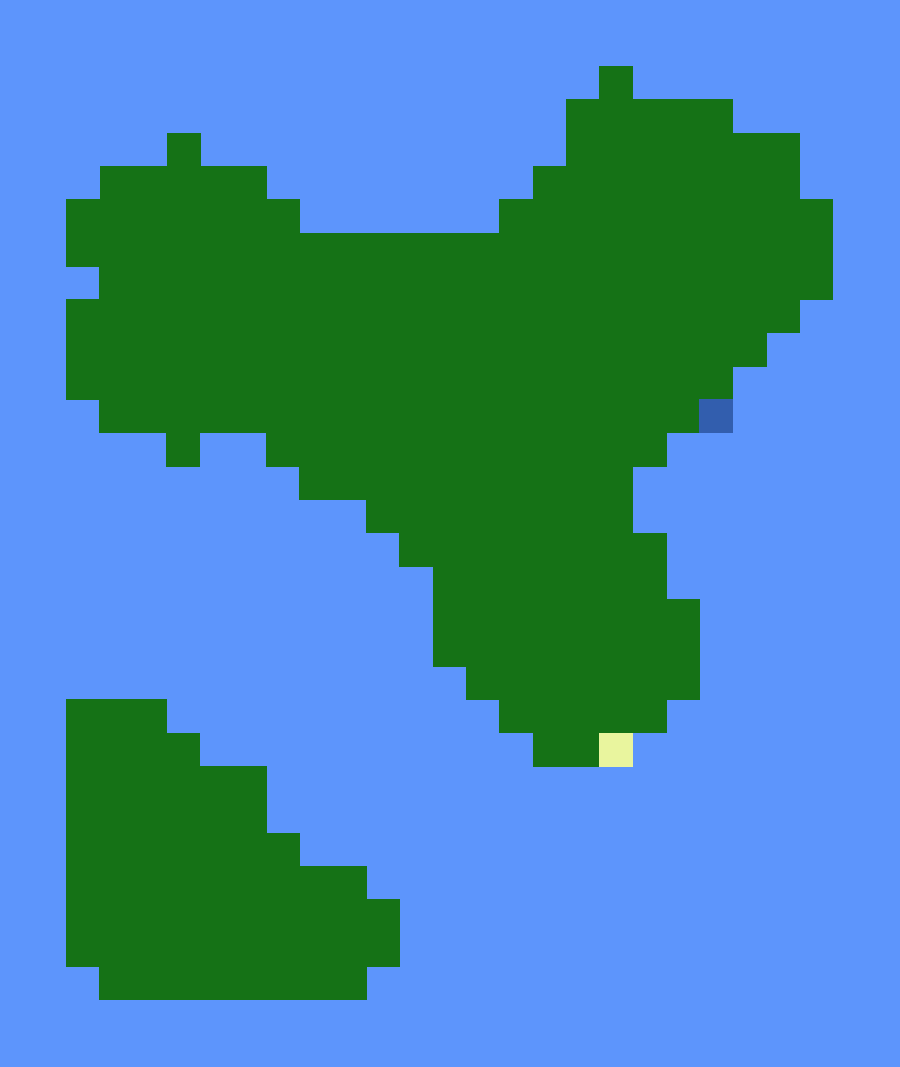
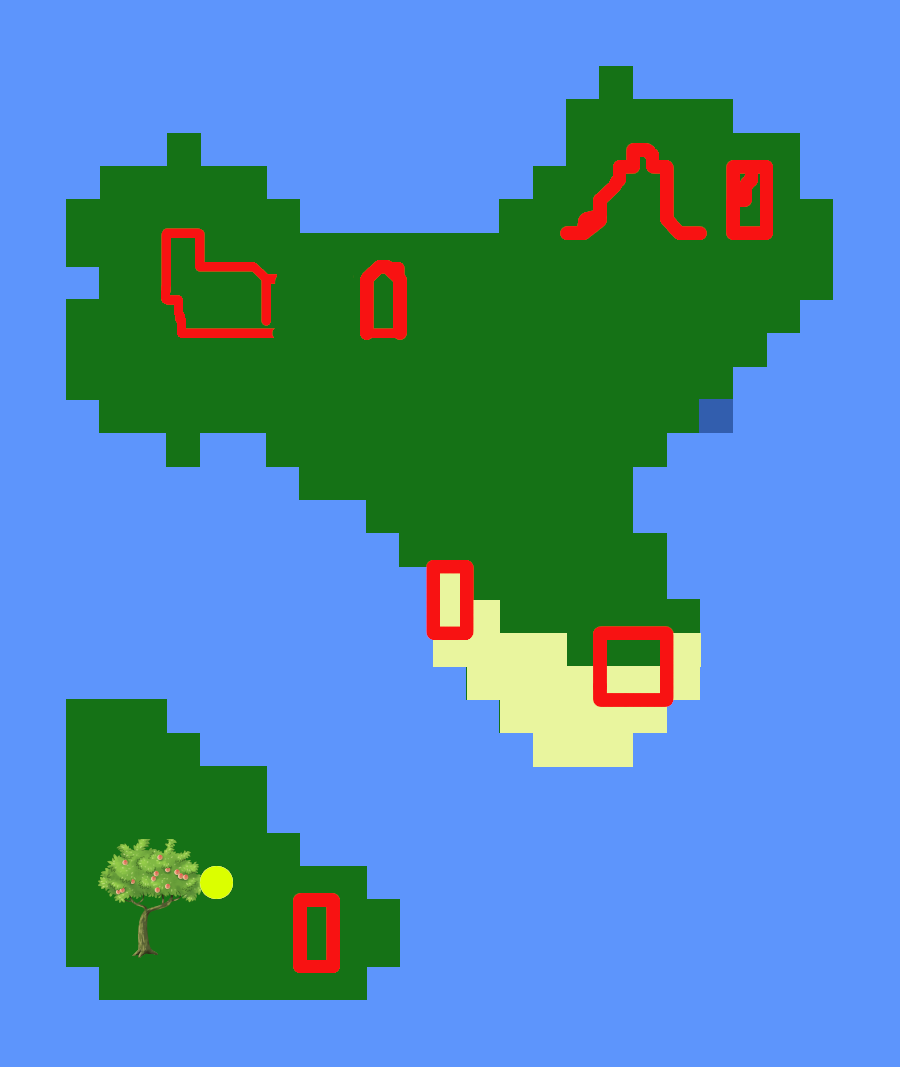
P2 : creating JSON file with NPCs and items
only 1 NPC, the grocer/depanneur
1 item, the peach

when these work I will keep adding more

diff --git a/Projects/Project2/P2 v0.3/js/script.js b/Projects/Project2/P2 v0.3/js/script.js
@@ -19,16 +19,16 @@ let gridMap = [
   [` `, ` `, ` `, ` `, ` `, ` `, ` `, ` `, ` `, ` `, ` `, ` `, ` `, ` `, ` `, ` `, ` `, ` `, ` `, ` `, ` `, ` `, ` `, ` `, ` `, ` `, ` `], // [3]
   [` `, ` `, ` `, ` `, ` `, ` `, ` `, ` `, ` `, ` `, ` `, ` `, ` `, ` `, ` `, ` `, ` `, ` `, ` `, ` `, ` `, ` `, ` `, ` `, ` `, ` `, ` `], // [4]
   [` `, ` `, ` `, ` `, ` `, ` `, ` `, ` `, ` `, ` `, ` `, ` `, ` `, ` `, ` `, ` `, ` `, ` `, ` `, ` `, ` `, ` `, ` `, ` `, ` `, ` `, ` `], // [5]
-  [`S`, `S`, `S`, `S`, `S`, `S`, `S`, `S`, `S`, `S`, `S`, `S`, `S`, `S`, `S`,` `, ` `, ` `, ` `, ` `, ` `, ` `, ` `, ` `, ` `, ` `], // [6]
-  [`S`, `S`, `S`, `S`, `S`, `S`, `S`, `S`, `S`, `S`, `S`, `S`, `S`, `S`, `S`,` `, ` `, ` `, ` `, ` `, ` `, ` `, ` `, ` `, ` `, ` `], // [7]
-  [` `, ` `, ` `, ` `, ` `, ` `, ` `, ` `, ` `, ` `, `S`, ` `, ` `, ` `, ` `,` `, ` `, ` `, ` `, ` `, ` `, ` `, ` `, ` `, ` `, ` `], // [8]
-  [` `, ` `, ` `, ` `, ` `, ` `, ` `, ` `, ` `, ` `, `S`, ` `, ` `, ` `, ` `,` `, ` `, ` `, ` `, ` `, ` `, ` `, ` `, ` `, ` `, ` `], // [9]
-  [` `, ` `, ` `, ` `, ` `, ` `, ` `, ` `, ` `, ` `, `S`, ` `, ` `, ` `, ` `,` `, ` `, ` `, ` `, ` `, ` `, ` `, ` `, ` `, ` `, ` `], // [10]
+  [` `, ` `, ` `, ` `, ` `, ` `, ` `, ` `, ` `, ` `, ` `, ` `, ` `, ` `, ` `,` `, ` `, ` `, ` `, ` `, ` `, ` `, ` `, ` `, ` `, ` `], // [6]
+  [` `, ` `, ` `, ` `, ` `, ` `, ` `, ` `, ` `, ` `, ` `, ` `, ` `, ` `, ` `,` `, ` `, ` `, ` `, ` `, ` `, ` `, ` `, ` `, ` `, ` `], // [7]
+  [` `, ` `, ` `, ` `, ` `, ` `, ` `, ` `, ` `, ` `, ` `, ` `, ` `, ` `, ` `,` `, ` `, ` `, ` `, ` `, ` `, ` `, ` `, ` `, ` `, ` `], // [8]
+  [` `, ` `, ` `, ` `, ` `, ` `, ` `, ` `, ` `, ` `, ` `, ` `, ` `, ` `, ` `,` `, ` `, ` `, ` `, ` `, ` `, ` `, ` `, ` `, ` `, ` `], // [9]
+  [` `, ` `, ` `, ` `, ` `, ` `, ` `, ` `, ` `, ` `, ` `, ` `, ` `, ` `, ` `,` `, ` `, ` `, ` `, ` `, ` `, ` `, ` `, ` `, ` `, ` `], // [10]
   [` `, ` `, ` `, ` `, ` `, ` `, ` `, ` `, `Pe`, ` `, ` `, ` `, ` `, ` `, ` `,` `, ` `, ` `, ` `, ` `, ` `, ` `, ` `, ` `, ` `, ` `], // [11]
-  [``, `NPC`, ` `, ` `, ` `, ` `, ` `, ` `, ` `, ` `, ` `, ` `, ` `, `Pl`, ``,` `, ` `, ` `, ` `, ` `, ` `, ` `, ` `, ` `, ` `, ` `], // [12]
+  [``, ` `, ` `, ` `, ` `, ` `, ` `, ` `, ` `, ` `, ` `, ` `, ` `, `Pl`, ``,` `, ` `, ` `, ` `, ` `, ` `, ` `, ` `, ` `, ` `, ` `], // [12]
   [``, ` `, ` `, ` `, ` `, ` `, ` `, ` `, ` `, ` `, ` `, ` `, ` `, ` `, ` `,` `, ` `, ` `, ` `, ` `, ` `, ` `, ` `, ` `, ` `, ` `], // [13]
   [``, ` `, ` `, ` `, ` `, ` `, ` `, ` `, ` `, ` `, ` `, ` `, ` `, ` `, ` `,` `, ` `, ` `, ` `, ` `, ` `, ` `, ` `, ` `, ` `, ` `], // [14]
-  [`S`, `S`, `S`, `S`, `S`, `S`, `S`, `S`, `S`, `S`, `S`, `S`, `S`, `S`, `S`,` `, ` `, ` `, ` `, ` `, ` `, ` `, ` `, ` `, ` `, ` `], // [15]
+  [` `, ` `, ` `, ` `, ` `, ` `, ` `, ` `, ` `, ` `, ` `, ` `, ` `, ` `, ` `,` `, ` `, ` `, ` `, ` `, ` `, ` `, ` `, ` `, ` `, ` `], // [15]
   [` `, ` `, ` `, ` `, ` `, ` `, ` `, ` `, ` `, ` `, ` `, ` `, ` `, ` `, ` `, ` `, ` `, ` `, ` `, ` `, ` `, ` `, ` `, ` `, ` `, ` `, ` `], // [16]
   [` `, ` `, ` `, ` `, ` `, ` `, ` `, ` `, ` `, ` `, ` `, ` `, ` `, ` `, ` `, ` `, ` `, ` `, ` `, ` `, ` `, ` `, ` `, ` `, ` `, ` `, ` `], // [17]
   [` `, ` `, ` `, ` `, ` `, ` `, ` `, ` `, ` `, ` `, ` `, ` `, ` `, ` `, ` `, ` `, ` `, ` `, ` `, ` `, ` `, ` `, ` `, ` `, ` `, ` `, ` `], // [18]
@@ -39,7 +39,7 @@ let gridMap = [
   [` `, ` `, ` `, ` `, ` `, ` `, ` `, ` `, ` `, ` `, ` `, ` `, ` `, ` `, ` `, ` `, ` `, ` `, ` `, ` `, ` `, ` `, ` `, ` `, ` `, ` `, ` `], // [23]
   [` `, ` `, ` `, ` `, ` `, ` `, ` `, ` `, ` `, ` `, ` `, ` `, ` `, ` `, ` `, ` `, ` `, ` `, ` `, ` `, ` `, ` `, ` `, ` `, ` `, ` `, ` `], // [24]
   [` `, ` `, ` `, ` `, ` `, ` `, ` `, ` `, ` `, ` `, ` `, ` `, ` `, ` `, ` `, ` `, ` `, ` `, ` `, ` `, ` `, ` `, ` `, ` `, ` `, ` `, ` `], // [25]
-  [` `, ` `, ` `, ` `, ` `, ` `, ` `, ` `, ` `, ` `, ` `, ` `, ` `, ` `, ` `, ` `, ` `, ` `, ` `, ` `, ` `, ` `, ` `, ` `, ` `, ` `, ` `], // [26]
+  [` `, ` `, ` `, ` `, ` `, ` `, `NPC`, ` `, ` `, ` `, ` `, ` `, ` `, ` `, ` `, ` `, ` `, ` `, ` `, ` `, ` `, ` `, ` `, ` `, ` `, ` `, ` `], // [26]
   [` `, ` `, ` `, ` `, ` `, ` `, ` `, ` `, ` `, ` `, ` `, ` `, ` `, ` `, ` `, ` `, ` `, ` `, ` `, ` `, ` `, ` `, ` `, ` `, ` `, ` `, ` `], // [27]
   [` `, ` `, ` `, ` `, ` `, ` `, ` `, ` `, ` `, ` `, ` `, ` `, ` `, ` `, ` `, ` `, ` `, ` `, ` `, ` `, ` `, ` `, ` `, ` `, ` `, ` `, ` `], // [28]
   [` `, ` `, ` `, ` `, ` `, ` `, ` `, ` `, ` `, ` `, ` `, ` `, ` `, ` `, ` `, ` `, ` `, ` `, ` `, ` `, ` `, ` `, ` `, ` `, ` `, ` `, ` `], // [29]
@@ -203,11 +203,11 @@ function simulationState() {
   if (state === "simulation") {
     // draw grass
     push();
-    // imageMode(CENTER);
-    // image(map, SCENE_W / 2, SCENE_H / 2, SCENE_W, SCENE_H);
-    fill(`green`);
-    rectMode(CENTER);
-    rect(SCENE_W / 2, 432, SCENE_W, SCENE_H / 1.5);
+    imageMode(CENTER);
+    image(map, SCENE_W / 2, SCENE_H / 2, SCENE_W, SCENE_H);
+    // fill(`green`);
+    // rectMode(CENTER);
+    // rect(SCENE_W / 2, 432, SCENE_W, SCENE_H / 1.5);
     pop();
     // display the tree!
     push();
@@ -346,7 +346,7 @@ function displayInventory() {
         stroke(0);
         strokeWeight(3.5);
         rectMode(CENTER);
-        rect(player.x - 180, player.y + 150, 40, 40); // 0
+        rect(45 + i * 40, 350, 40, 40); // 0
         pop();
       }
       // in box 0
@@ -550,17 +550,7 @@ function keyPressed() {
         selectItem = player.inventory[9];
       }
     }
-    // if (keyCode === 73) {
-    //   // when player presses 'I' //
-    //   // display item over avatar
-    //   if (selectItemHeldOut === true) {
-    //     // if selectItem is held out when C is pressed
-    //     selectItemHeldOut = false; // hide selectItem
-    //   } else if (selectItemHeldOut === false) {
-    //     // if selectItem is hidden when C is pressed
-    //     selectItemHeldOut = true; // show selectItem over player's head
-    //   }
-    // }
+  
     if (keyCode === LEFT_ARROW) {
       if (
         // when player tries to move left, if there is a barrier, an npc, or an unknown
@@ -1018,6 +1008,7 @@ function dropItem(item) {
 // mouse used for debugging
 function mouseClicked() {
   // console.log(gridMap);
+  console.log(currentDigitPressed);
   console.log(gridUnit);
   console.log(npcPeachEvent);
   console.log(player.inventory);

diff --git a/Projects/Project2/P2 v0.3/index.html b/Projects/Project2/P2 v0.3/index.html
@@ -10,7 +10,7 @@
       user-scalable="0"
     />
 
-    <title>Mish Mash PROTOTYPE var0.2.HTML!</title>
+    <title>Mish Mash PROTOTYPE var0.3.HTML!</title>
 
     <!-- CSS stylesheet(s) -->
     <link rel="stylesheet" type="text/css" href="css/style.css" />
